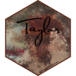
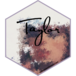
Deploying to gh-pages from @ wjakethompson/taylor@fa951701e9b115291937c02d41da0db22fc74bd2 🚀

diff --git a/dev/index.html b/dev/index.html
@@ -123,7 +123,7 @@
 <p>To install the development version from <a href="https://github.com/" class="external-link">GitHub</a> use:</p>
 <div class="sourceCode" id="cb2"><pre class="downlit sourceCode r">
 <code class="sourceCode R"><span><span class="co"># install.packages("remotes")</span></span>
-<span><span class="fu">remotes</span><span class="fu">::</span><span class="fu"><a href="https://remotes.r-lib.org/reference/install_github.html" class="external-link">install_github</a></span><span class="op">(</span><span class="st">"wjakethompson/taylor"</span><span class="op">)</span></span></code></pre></div>
+<span><span class="fu">remotes</span><span class="fu">::</span><span class="fu">install_github</span><span class="op">(</span><span class="st">"wjakethompson/taylor"</span><span class="op">)</span></span></code></pre></div>
 </div>
 <div class="section level2">
 <h2 id="example">Example<a class="anchor" aria-label="anchor" href="#example"></a>
@@ -131,68 +131,70 @@
 <p>There are three main data sets. The first is <code>taylor_album_songs</code>, which includes lyrics and audio features from the Spotify API for all songs on Taylor’s official studio albums. Notably this excludes singles released separately from an album (e.g., <em>Only the Young</em>, <em>Christmas Tree Farm</em>, etc.), and non-Taylor-owned albums that have a Taylor-owned alternative (e.g., <em>Fearless</em> is excluded in favor of <em>Fearless (Taylor’s Version)</em>). We stan artists owning their own songs.</p>
 <div class="sourceCode" id="cb3"><pre class="downlit sourceCode r">
 <code class="sourceCode R"><span><span class="va">taylor_album_songs</span></span>
-<span><span class="co">#&gt; # A tibble: 171 × 29</span></span>
-<span><span class="co">#&gt;    album_name   ep    album_release track_number track_name    artist  featuring</span></span>
-<span><span class="co">#&gt;    &lt;chr&gt;        &lt;lgl&gt; &lt;date&gt;               &lt;int&gt; &lt;chr&gt;         &lt;chr&gt;   &lt;chr&gt;    </span></span>
-<span><span class="co">#&gt;  1 Taylor Swift FALSE 2006-10-24               1 Tim McGraw    Taylor… &lt;NA&gt;     </span></span>
-<span><span class="co">#&gt;  2 Taylor Swift FALSE 2006-10-24               2 Picture To B… Taylor… &lt;NA&gt;     </span></span>
-<span><span class="co">#&gt;  3 Taylor Swift FALSE 2006-10-24               3 Teardrops On… Taylor… &lt;NA&gt;     </span></span>
-<span><span class="co">#&gt;  4 Taylor Swift FALSE 2006-10-24               4 A Place In T… Taylor… &lt;NA&gt;     </span></span>
-<span><span class="co">#&gt;  5 Taylor Swift FALSE 2006-10-24               5 Cold As You   Taylor… &lt;NA&gt;     </span></span>
-<span><span class="co">#&gt;  6 Taylor Swift FALSE 2006-10-24               6 The Outside   Taylor… &lt;NA&gt;     </span></span>
-<span><span class="co">#&gt;  7 Taylor Swift FALSE 2006-10-24               7 Tied Togethe… Taylor… &lt;NA&gt;     </span></span>
-<span><span class="co">#&gt;  8 Taylor Swift FALSE 2006-10-24               8 Stay Beautif… Taylor… &lt;NA&gt;     </span></span>
-<span><span class="co">#&gt;  9 Taylor Swift FALSE 2006-10-24               9 Should've Sa… Taylor… &lt;NA&gt;     </span></span>
-<span><span class="co">#&gt; 10 Taylor Swift FALSE 2006-10-24              10 Mary's Song … Taylor… &lt;NA&gt;     </span></span>
-<span><span class="co">#&gt; # … with 161 more rows, and 22 more variables: bonus_track &lt;lgl&gt;,</span></span>
-<span><span class="co">#&gt; #   promotional_release &lt;date&gt;, single_release &lt;date&gt;, track_release &lt;date&gt;,</span></span>
-<span><span class="co">#&gt; #   danceability &lt;dbl&gt;, energy &lt;dbl&gt;, key &lt;int&gt;, loudness &lt;dbl&gt;, mode &lt;int&gt;,</span></span>
-<span><span class="co">#&gt; #   speechiness &lt;dbl&gt;, acousticness &lt;dbl&gt;, instrumentalness &lt;dbl&gt;,</span></span>
-<span><span class="co">#&gt; #   liveness &lt;dbl&gt;, valence &lt;dbl&gt;, tempo &lt;dbl&gt;, time_signature &lt;int&gt;,</span></span>
-<span><span class="co">#&gt; #   duration_ms &lt;int&gt;, explicit &lt;lgl&gt;, key_name &lt;chr&gt;, mode_name &lt;chr&gt;,</span></span>
-<span><span class="co">#&gt; #   key_mode &lt;chr&gt;, lyrics &lt;list&gt;</span></span></code></pre></div>
+<span><span class="co">#&gt; # A tibble: 194 × 29</span></span>
+<span><span class="co">#&gt;    album_name ep    album_re…¹ track…² track…³ artist featu…⁴ bonus…⁵ promotio…⁶</span></span>
+<span><span class="co">#&gt;    &lt;chr&gt;      &lt;lgl&gt; &lt;date&gt;       &lt;int&gt; &lt;chr&gt;   &lt;chr&gt;  &lt;chr&gt;   &lt;lgl&gt;   &lt;date&gt;    </span></span>
+<span><span class="co">#&gt;  1 Taylor Sw… FALSE 2006-10-24       1 Tim Mc… Taylo… &lt;NA&gt;    FALSE   NA        </span></span>
+<span><span class="co">#&gt;  2 Taylor Sw… FALSE 2006-10-24       2 Pictur… Taylo… &lt;NA&gt;    FALSE   NA        </span></span>
+<span><span class="co">#&gt;  3 Taylor Sw… FALSE 2006-10-24       3 Teardr… Taylo… &lt;NA&gt;    FALSE   NA        </span></span>
+<span><span class="co">#&gt;  4 Taylor Sw… FALSE 2006-10-24       4 A Plac… Taylo… &lt;NA&gt;    FALSE   NA        </span></span>
+<span><span class="co">#&gt;  5 Taylor Sw… FALSE 2006-10-24       5 Cold A… Taylo… &lt;NA&gt;    FALSE   NA        </span></span>
+<span><span class="co">#&gt;  6 Taylor Sw… FALSE 2006-10-24       6 The Ou… Taylo… &lt;NA&gt;    FALSE   NA        </span></span>
+<span><span class="co">#&gt;  7 Taylor Sw… FALSE 2006-10-24       7 Tied T… Taylo… &lt;NA&gt;    FALSE   NA        </span></span>
+<span><span class="co">#&gt;  8 Taylor Sw… FALSE 2006-10-24       8 Stay B… Taylo… &lt;NA&gt;    FALSE   NA        </span></span>
+<span><span class="co">#&gt;  9 Taylor Sw… FALSE 2006-10-24       9 Should… Taylo… &lt;NA&gt;    FALSE   NA        </span></span>
+<span><span class="co">#&gt; 10 Taylor Sw… FALSE 2006-10-24      10 Mary's… Taylo… &lt;NA&gt;    FALSE   NA        </span></span>
+<span><span class="co">#&gt; # … with 184 more rows, 20 more variables: single_release &lt;date&gt;,</span></span>
+<span><span class="co">#&gt; #   track_release &lt;date&gt;, danceability &lt;dbl&gt;, energy &lt;dbl&gt;, key &lt;int&gt;,</span></span>
+<span><span class="co">#&gt; #   loudness &lt;dbl&gt;, mode &lt;int&gt;, speechiness &lt;dbl&gt;, acousticness &lt;dbl&gt;,</span></span>
+<span><span class="co">#&gt; #   instrumentalness &lt;dbl&gt;, liveness &lt;dbl&gt;, valence &lt;dbl&gt;, tempo &lt;dbl&gt;,</span></span>
+<span><span class="co">#&gt; #   time_signature &lt;int&gt;, duration_ms &lt;int&gt;, explicit &lt;lgl&gt;, key_name &lt;chr&gt;,</span></span>
+<span><span class="co">#&gt; #   mode_name &lt;chr&gt;, key_mode &lt;chr&gt;, lyrics &lt;list&gt;, and abbreviated variable</span></span>
+<span><span class="co">#&gt; #   names ¹album_release, ²track_number, ³track_name, ⁴featuring, …</span></span></code></pre></div>
 <p>You can access Taylor’s entire discography with <code>taylor_all_songs</code>. This includes all of the songs in <code>taylor_album_songs</code> plus EPs, individual singles, and the original versions of albums that have been re-released as <em>Taylor’s Version</em>.</p>
 <div class="sourceCode" id="cb4"><pre class="downlit sourceCode r">
 <code class="sourceCode R"><span><span class="va">taylor_all_songs</span></span>
-<span><span class="co">#&gt; # A tibble: 245 × 29</span></span>
-<span><span class="co">#&gt;    album_name   ep    album_release track_number track_name    artist  featuring</span></span>
-<span><span class="co">#&gt;    &lt;chr&gt;        &lt;lgl&gt; &lt;date&gt;               &lt;int&gt; &lt;chr&gt;         &lt;chr&gt;   &lt;chr&gt;    </span></span>
-<span><span class="co">#&gt;  1 Taylor Swift FALSE 2006-10-24               1 Tim McGraw    Taylor… &lt;NA&gt;     </span></span>
-<span><span class="co">#&gt;  2 Taylor Swift FALSE 2006-10-24               2 Picture To B… Taylor… &lt;NA&gt;     </span></span>
-<span><span class="co">#&gt;  3 Taylor Swift FALSE 2006-10-24               3 Teardrops On… Taylor… &lt;NA&gt;     </span></span>
-<span><span class="co">#&gt;  4 Taylor Swift FALSE 2006-10-24               4 A Place In T… Taylor… &lt;NA&gt;     </span></span>
-<span><span class="co">#&gt;  5 Taylor Swift FALSE 2006-10-24               5 Cold As You   Taylor… &lt;NA&gt;     </span></span>
-<span><span class="co">#&gt;  6 Taylor Swift FALSE 2006-10-24               6 The Outside   Taylor… &lt;NA&gt;     </span></span>
-<span><span class="co">#&gt;  7 Taylor Swift FALSE 2006-10-24               7 Tied Togethe… Taylor… &lt;NA&gt;     </span></span>
-<span><span class="co">#&gt;  8 Taylor Swift FALSE 2006-10-24               8 Stay Beautif… Taylor… &lt;NA&gt;     </span></span>
-<span><span class="co">#&gt;  9 Taylor Swift FALSE 2006-10-24               9 Should've Sa… Taylor… &lt;NA&gt;     </span></span>
-<span><span class="co">#&gt; 10 Taylor Swift FALSE 2006-10-24              10 Mary's Song … Taylor… &lt;NA&gt;     </span></span>
-<span><span class="co">#&gt; # … with 235 more rows, and 22 more variables: bonus_track &lt;lgl&gt;,</span></span>
-<span><span class="co">#&gt; #   promotional_release &lt;date&gt;, single_release &lt;date&gt;, track_release &lt;date&gt;,</span></span>
-<span><span class="co">#&gt; #   danceability &lt;dbl&gt;, energy &lt;dbl&gt;, key &lt;int&gt;, loudness &lt;dbl&gt;, mode &lt;int&gt;,</span></span>
-<span><span class="co">#&gt; #   speechiness &lt;dbl&gt;, acousticness &lt;dbl&gt;, instrumentalness &lt;dbl&gt;,</span></span>
-<span><span class="co">#&gt; #   liveness &lt;dbl&gt;, valence &lt;dbl&gt;, tempo &lt;dbl&gt;, time_signature &lt;int&gt;,</span></span>
-<span><span class="co">#&gt; #   duration_ms &lt;int&gt;, explicit &lt;lgl&gt;, key_name &lt;chr&gt;, mode_name &lt;chr&gt;,</span></span>
-<span><span class="co">#&gt; #   key_mode &lt;chr&gt;, lyrics &lt;list&gt;</span></span></code></pre></div>
+<span><span class="co">#&gt; # A tibble: 274 × 29</span></span>
+<span><span class="co">#&gt;    album_name ep    album_re…¹ track…² track…³ artist featu…⁴ bonus…⁵ promotio…⁶</span></span>
+<span><span class="co">#&gt;    &lt;chr&gt;      &lt;lgl&gt; &lt;date&gt;       &lt;int&gt; &lt;chr&gt;   &lt;chr&gt;  &lt;chr&gt;   &lt;lgl&gt;   &lt;date&gt;    </span></span>
+<span><span class="co">#&gt;  1 Taylor Sw… FALSE 2006-10-24       1 Tim Mc… Taylo… &lt;NA&gt;    FALSE   NA        </span></span>
+<span><span class="co">#&gt;  2 Taylor Sw… FALSE 2006-10-24       2 Pictur… Taylo… &lt;NA&gt;    FALSE   NA        </span></span>
+<span><span class="co">#&gt;  3 Taylor Sw… FALSE 2006-10-24       3 Teardr… Taylo… &lt;NA&gt;    FALSE   NA        </span></span>
+<span><span class="co">#&gt;  4 Taylor Sw… FALSE 2006-10-24       4 A Plac… Taylo… &lt;NA&gt;    FALSE   NA        </span></span>
+<span><span class="co">#&gt;  5 Taylor Sw… FALSE 2006-10-24       5 Cold A… Taylo… &lt;NA&gt;    FALSE   NA        </span></span>
+<span><span class="co">#&gt;  6 Taylor Sw… FALSE 2006-10-24       6 The Ou… Taylo… &lt;NA&gt;    FALSE   NA        </span></span>
+<span><span class="co">#&gt;  7 Taylor Sw… FALSE 2006-10-24       7 Tied T… Taylo… &lt;NA&gt;    FALSE   NA        </span></span>
+<span><span class="co">#&gt;  8 Taylor Sw… FALSE 2006-10-24       8 Stay B… Taylo… &lt;NA&gt;    FALSE   NA        </span></span>
+<span><span class="co">#&gt;  9 Taylor Sw… FALSE 2006-10-24       9 Should… Taylo… &lt;NA&gt;    FALSE   NA        </span></span>
+<span><span class="co">#&gt; 10 Taylor Sw… FALSE 2006-10-24      10 Mary's… Taylo… &lt;NA&gt;    FALSE   NA        </span></span>
+<span><span class="co">#&gt; # … with 264 more rows, 20 more variables: single_release &lt;date&gt;,</span></span>
+<span><span class="co">#&gt; #   track_release &lt;date&gt;, danceability &lt;dbl&gt;, energy &lt;dbl&gt;, key &lt;int&gt;,</span></span>
+<span><span class="co">#&gt; #   loudness &lt;dbl&gt;, mode &lt;int&gt;, speechiness &lt;dbl&gt;, acousticness &lt;dbl&gt;,</span></span>
+<span><span class="co">#&gt; #   instrumentalness &lt;dbl&gt;, liveness &lt;dbl&gt;, valence &lt;dbl&gt;, tempo &lt;dbl&gt;,</span></span>
+<span><span class="co">#&gt; #   time_signature &lt;int&gt;, duration_ms &lt;int&gt;, explicit &lt;lgl&gt;, key_name &lt;chr&gt;,</span></span>
+<span><span class="co">#&gt; #   mode_name &lt;chr&gt;, key_mode &lt;chr&gt;, lyrics &lt;list&gt;, and abbreviated variable</span></span>
+<span><span class="co">#&gt; #   names ¹album_release, ²track_number, ³track_name, ⁴featuring, …</span></span></code></pre></div>
 <p>Finally, there is a small data set, <code>taylor_albums</code>, summarizing Taylor’s album release history.</p>
 <div class="sourceCode" id="cb5"><pre class="downlit sourceCode r">
 <code class="sourceCode R"><span><span class="va">taylor_albums</span></span>
-<span><span class="co">#&gt; # A tibble: 13 × 4</span></span>
-<span><span class="co">#&gt;    album_name                          ep    album_release metacritic_score</span></span>
-<span><span class="co">#&gt;    &lt;chr&gt;                               &lt;lgl&gt; &lt;date&gt;                   &lt;int&gt;</span></span>
-<span><span class="co">#&gt;  1 Taylor Swift                        FALSE 2006-10-24                  NA</span></span>
-<span><span class="co">#&gt;  2 The Taylor Swift Holiday Collection TRUE  2007-10-14                  NA</span></span>
-<span><span class="co">#&gt;  3 Beautiful Eyes                      TRUE  2008-07-15                  NA</span></span>
-<span><span class="co">#&gt;  4 Fearless                            FALSE 2008-11-11                  73</span></span>
-<span><span class="co">#&gt;  5 Speak Now                           FALSE 2010-10-25                  77</span></span>
-<span><span class="co">#&gt;  6 Red                                 FALSE 2012-10-22                  77</span></span>
-<span><span class="co">#&gt;  7 1989                                FALSE 2014-10-27                  76</span></span>
-<span><span class="co">#&gt;  8 reputation                          FALSE 2017-11-10                  71</span></span>
-<span><span class="co">#&gt;  9 Lover                               FALSE 2019-08-23                  79</span></span>
-<span><span class="co">#&gt; 10 folklore                            FALSE 2020-07-24                  88</span></span>
-<span><span class="co">#&gt; 11 evermore                            FALSE 2020-12-11                  85</span></span>
-<span><span class="co">#&gt; 12 Fearless (Taylor's Version)         FALSE 2021-04-09                  82</span></span>
-<span><span class="co">#&gt; 13 Red (Taylor's Version)              FALSE 2021-11-12                  96</span></span></code></pre></div>
+<span><span class="co">#&gt; # A tibble: 14 × 5</span></span>
+<span><span class="co">#&gt;    album_name                          ep    album_release metacritic_…¹ user_…²</span></span>
+<span><span class="co">#&gt;    &lt;chr&gt;                               &lt;lgl&gt; &lt;date&gt;                &lt;int&gt;   &lt;dbl&gt;</span></span>
+<span><span class="co">#&gt;  1 Taylor Swift                        FALSE 2006-10-24               67     9.2</span></span>
+<span><span class="co">#&gt;  2 The Taylor Swift Holiday Collection TRUE  2007-10-14               NA    NA  </span></span>
+<span><span class="co">#&gt;  3 Beautiful Eyes                      TRUE  2008-07-15               NA    NA  </span></span>
+<span><span class="co">#&gt;  4 Fearless                            FALSE 2008-11-11               73     8.4</span></span>
+<span><span class="co">#&gt;  5 Speak Now                           FALSE 2010-10-25               77     8.7</span></span>
+<span><span class="co">#&gt;  6 Red                                 FALSE 2012-10-22               77     8.5</span></span>
+<span><span class="co">#&gt;  7 1989                                FALSE 2014-10-27               76     8.2</span></span>
+<span><span class="co">#&gt;  8 reputation                          FALSE 2017-11-10               71     8.3</span></span>
+<span><span class="co">#&gt;  9 Lover                               FALSE 2019-08-23               79     8.4</span></span>
+<span><span class="co">#&gt; 10 folklore                            FALSE 2020-07-24               88     9  </span></span>
+<span><span class="co">#&gt; 11 evermore                            FALSE 2020-12-11               85     8.9</span></span>
+<span><span class="co">#&gt; 12 Fearless (Taylor's Version)         FALSE 2021-04-09               82     8.9</span></span>
+<span><span class="co">#&gt; 13 Red (Taylor's Version)              FALSE 2021-11-12               91     9  </span></span>
+<span><span class="co">#&gt; 14 Midnights                           FALSE 2022-10-21               94     9  </span></span>
+<span><span class="co">#&gt; # … with abbreviated variable names ¹metacritic_score, ²user_score</span></span></code></pre></div>
 </div>
 <div class="section level2">
 <h2 id="code-of-conduct">Code of Conduct<a class="anchor" aria-label="anchor" href="#code-of-conduct"></a>

diff --git a/dev/articles/plotting.html b/dev/articles/plotting.html
@@ -198,22 +198,24 @@
 <p>Finally, there is an album scale that can be used when plotting data from multiple albums. Take for example the <a href="https://www.metacritic.com/person/taylor-swift" class="external-link">Metacritic</a> ratings of Taylor’s albums, stored in <code><a href="../reference/taylor_albums.html">taylor::taylor_albums</a></code>.</p>
 <div class="sourceCode" id="cb9"><pre class="downlit sourceCode r">
 <code class="sourceCode R"><span><span class="va">taylor_albums</span></span>
-<span><span class="co">#&gt; <span style="color: #949494;"># A tibble: 13 × 4</span></span></span>
-<span><span class="co">#&gt;    album_name                          ep    album_release metacritic_score</span></span>
-<span><span class="co">#&gt;    <span style="color: #949494; font-style: italic;">&lt;chr&gt;</span>                               <span style="color: #949494; font-style: italic;">&lt;lgl&gt;</span> <span style="color: #949494; font-style: italic;">&lt;date&gt;</span>                   <span style="color: #949494; font-style: italic;">&lt;int&gt;</span></span></span>
-<span><span class="co">#&gt; <span style="color: #BCBCBC;"> 1</span> Taylor Swift                        FALSE 2006-10-24                  <span style="color: #BB0000;">NA</span></span></span>
-<span><span class="co">#&gt; <span style="color: #BCBCBC;"> 2</span> The Taylor Swift Holiday Collection TRUE  2007-10-14                  <span style="color: #BB0000;">NA</span></span></span>
-<span><span class="co">#&gt; <span style="color: #BCBCBC;"> 3</span> Beautiful Eyes                      TRUE  2008-07-15                  <span style="color: #BB0000;">NA</span></span></span>
-<span><span class="co">#&gt; <span style="color: #BCBCBC;"> 4</span> Fearless                            FALSE 2008-11-11                  73</span></span>
-<span><span class="co">#&gt; <span style="color: #BCBCBC;"> 5</span> Speak Now                           FALSE 2010-10-25                  77</span></span>
-<span><span class="co">#&gt; <span style="color: #BCBCBC;"> 6</span> Red                                 FALSE 2012-10-22                  77</span></span>
-<span><span class="co">#&gt; <span style="color: #BCBCBC;"> 7</span> 1989                                FALSE 2014-10-27                  76</span></span>
-<span><span class="co">#&gt; <span style="color: #BCBCBC;"> 8</span> reputation                          FALSE 2017-11-10                  71</span></span>
-<span><span class="co">#&gt; <span style="color: #BCBCBC;"> 9</span> Lover                               FALSE 2019-08-23                  79</span></span>
-<span><span class="co">#&gt; <span style="color: #BCBCBC;">10</span> folklore                            FALSE 2020-07-24                  88</span></span>
-<span><span class="co">#&gt; <span style="color: #BCBCBC;">11</span> evermore                            FALSE 2020-12-11                  85</span></span>
-<span><span class="co">#&gt; <span style="color: #BCBCBC;">12</span> Fearless (Taylor's Version)         FALSE 2021-04-09                  82</span></span>
-<span><span class="co">#&gt; <span style="color: #BCBCBC;">13</span> Red (Taylor's Version)              FALSE 2021-11-12                  96</span></span></code></pre></div>
+<span><span class="co">#&gt; <span style="color: #949494;"># A tibble: 14 × 5</span></span></span>
+<span><span class="co">#&gt;    album_name                          ep    album_release metacritic_…¹ user_…²</span></span>
+<span><span class="co">#&gt;    <span style="color: #949494; font-style: italic;">&lt;chr&gt;</span>                               <span style="color: #949494; font-style: italic;">&lt;lgl&gt;</span> <span style="color: #949494; font-style: italic;">&lt;date&gt;</span>                <span style="color: #949494; font-style: italic;">&lt;int&gt;</span>   <span style="color: #949494; font-style: italic;">&lt;dbl&gt;</span></span></span>
+<span><span class="co">#&gt; <span style="color: #BCBCBC;"> 1</span> Taylor Swift                        FALSE 2006-10-24               67     9.2</span></span>
+<span><span class="co">#&gt; <span style="color: #BCBCBC;"> 2</span> The Taylor Swift Holiday Collection TRUE  2007-10-14               <span style="color: #BB0000;">NA</span>    <span style="color: #BB0000;">NA</span>  </span></span>
+<span><span class="co">#&gt; <span style="color: #BCBCBC;"> 3</span> Beautiful Eyes                      TRUE  2008-07-15               <span style="color: #BB0000;">NA</span>    <span style="color: #BB0000;">NA</span>  </span></span>
+<span><span class="co">#&gt; <span style="color: #BCBCBC;"> 4</span> Fearless                            FALSE 2008-11-11               73     8.4</span></span>
+<span><span class="co">#&gt; <span style="color: #BCBCBC;"> 5</span> Speak Now                           FALSE 2010-10-25               77     8.7</span></span>
+<span><span class="co">#&gt; <span style="color: #BCBCBC;"> 6</span> Red                                 FALSE 2012-10-22               77     8.5</span></span>
+<span><span class="co">#&gt; <span style="color: #BCBCBC;"> 7</span> 1989                                FALSE 2014-10-27               76     8.2</span></span>
+<span><span class="co">#&gt; <span style="color: #BCBCBC;"> 8</span> reputation                          FALSE 2017-11-10               71     8.3</span></span>
+<span><span class="co">#&gt; <span style="color: #BCBCBC;"> 9</span> Lover                               FALSE 2019-08-23               79     8.4</span></span>
+<span><span class="co">#&gt; <span style="color: #BCBCBC;">10</span> folklore                            FALSE 2020-07-24               88     9  </span></span>
+<span><span class="co">#&gt; <span style="color: #BCBCBC;">11</span> evermore                            FALSE 2020-12-11               85     8.9</span></span>
+<span><span class="co">#&gt; <span style="color: #BCBCBC;">12</span> Fearless (Taylor's Version)         FALSE 2021-04-09               82     8.9</span></span>
+<span><span class="co">#&gt; <span style="color: #BCBCBC;">13</span> Red (Taylor's Version)              FALSE 2021-11-12               91     9  </span></span>
+<span><span class="co">#&gt; <span style="color: #BCBCBC;">14</span> Midnights                           FALSE 2022-10-21               94     9  </span></span>
+<span><span class="co">#&gt; <span style="color: #949494;"># … with abbreviated variable names ¹metacritic_score, ²user_score</span></span></span></code></pre></div>
 <p>Let’s create a bar graph showing the rating of each album. We’ll first make the album name a factor variable. A convenience variable, <code><a href="../reference/album_levels.html">taylor::album_levels</a></code>, is included in the package that will let us easily order the factor by album release date.<a class="footnote-ref" tabindex="0" data-bs-toggle="popover" data-bs-content='&lt;p&gt;Albums are not precisely in release order. Re-releases are ordered next to the original release. See &lt;code&gt;&lt;a href="../reference/album_levels.html"&gt;?taylor::album_levels&lt;/a&gt;&lt;/code&gt; for details.&lt;/p&gt;'><sup>1</sup></a> Metacritic doesn’t have a rating for Taylor’s debut album, <em>Taylor Swift</em>, so I will manually assign a value so that we can see the full scale in action. We’ll give each bar its own color to add some pizzazz to the plot.</p>
 <div class="sourceCode" id="cb10"><pre class="downlit sourceCode r">
 <code class="sourceCode R"><span><span class="va">metacritic</span> <span class="op">&lt;-</span> <span class="va">taylor_albums</span></span>

diff --git a/dev/reference/scale_taylor.html b/dev/reference/scale_taylor.html
@@ -257,12 +257,15 @@ other values are deprecated.</p></dd>
 <span class="r-in"><span><span class="op">(</span><span class="va">p</span> <span class="op">&lt;-</span> <span class="fu"><a href="https://ggplot2.tidyverse.org/reference/ggplot.html" class="external-link">ggplot</a></span><span class="op">(</span><span class="va">taylor_album_songs</span>, <span class="fu"><a href="https://ggplot2.tidyverse.org/reference/aes.html" class="external-link">aes</a></span><span class="op">(</span>x <span class="op">=</span> <span class="va">valence</span>, y <span class="op">=</span> <span class="va">energy</span><span class="op">)</span><span class="op">)</span> <span class="op">+</span></span></span>
 <span class="r-in"><span>   <span class="fu"><a href="https://ggplot2.tidyverse.org/reference/geom_point.html" class="external-link">geom_point</a></span><span class="op">(</span><span class="fu"><a href="https://ggplot2.tidyverse.org/reference/aes.html" class="external-link">aes</a></span><span class="op">(</span>color <span class="op">=</span> <span class="va">mode_name</span><span class="op">)</span>, size <span class="op">=</span> <span class="fl">2</span><span class="op">)</span> <span class="op">+</span></span></span>
 <span class="r-in"><span>   <span class="fu"><a href="https://ggplot2.tidyverse.org/reference/ggtheme.html" class="external-link">theme_bw</a></span><span class="op">(</span><span class="op">)</span><span class="op">)</span></span></span>
+<span class="r-wrn co"><span class="r-pr">#&gt;</span> <span class="warning">Warning: </span>Removed 3 rows containing missing values (geom_point).</span>
 <span class="r-plt img"><img src="scale_taylor-1.png" alt="" width="700" height="433"></span>
 <span class="r-in"><span><span class="va">p</span> <span class="op">+</span> <span class="fu">scale_color_taylor_d</span><span class="op">(</span><span class="op">)</span></span></span>
+<span class="r-wrn co"><span class="r-pr">#&gt;</span> <span class="warning">Warning: </span>Removed 3 rows containing missing values (geom_point).</span>
 <span class="r-plt img"><img src="scale_taylor-2.png" alt="" width="700" height="433"></span>
 <span class="r-in"><span></span></span>
 <span class="r-in"><span><span class="co"># change scale label</span></span></span>
 <span class="r-in"><span><span class="va">p</span> <span class="op">+</span> <span class="fu">scale_fill_taylor_d</span><span class="op">(</span><span class="st">"Mode of Track"</span><span class="op">)</span></span></span>
+<span class="r-wrn co"><span class="r-pr">#&gt;</span> <span class="warning">Warning: </span>Removed 3 rows containing missing values (geom_point).</span>
 <span class="r-plt img"><img src="scale_taylor-3.png" alt="" width="700" height="433"></span>
 <span class="r-in"><span></span></span>
 <span class="r-in"><span><span class="co"># select album palette to use, see ?taylor::album_palettes for more details</span></span></span>
@@ -280,10 +283,13 @@ other values are deprecated.</p></dd>
 <span class="r-in"><span><span class="op">(</span><span class="va">p</span> <span class="op">&lt;-</span> <span class="fu"><a href="https://ggplot2.tidyverse.org/reference/ggplot.html" class="external-link">ggplot</a></span><span class="op">(</span><span class="va">taylor_album_songs</span>, <span class="fu"><a href="https://ggplot2.tidyverse.org/reference/aes.html" class="external-link">aes</a></span><span class="op">(</span><span class="va">valence</span>, <span class="va">energy</span><span class="op">)</span><span class="op">)</span> <span class="op">+</span></span></span>
 <span class="r-in"><span>   <span class="fu"><a href="https://ggplot2.tidyverse.org/reference/geom_point.html" class="external-link">geom_point</a></span><span class="op">(</span><span class="fu"><a href="https://ggplot2.tidyverse.org/reference/aes.html" class="external-link">aes</a></span><span class="op">(</span>color <span class="op">=</span> <span class="va">danceability</span><span class="op">)</span><span class="op">)</span> <span class="op">+</span></span></span>
 <span class="r-in"><span>   <span class="fu"><a href="https://ggplot2.tidyverse.org/reference/ggtheme.html" class="external-link">theme_minimal</a></span><span class="op">(</span><span class="op">)</span><span class="op">)</span></span></span>
+<span class="r-wrn co"><span class="r-pr">#&gt;</span> <span class="warning">Warning: </span>Removed 3 rows containing missing values (geom_point).</span>
 <span class="r-plt img"><img src="scale_taylor-7.png" alt="" width="700" height="433"></span>
 <span class="r-in"><span><span class="va">p</span> <span class="op">+</span> <span class="fu">scale_color_taylor_c</span><span class="op">(</span>album <span class="op">=</span> <span class="st">"Fearless"</span><span class="op">)</span></span></span>
+<span class="r-wrn co"><span class="r-pr">#&gt;</span> <span class="warning">Warning: </span>Removed 3 rows containing missing values (geom_point).</span>
 <span class="r-plt img"><img src="scale_taylor-8.png" alt="" width="700" height="433"></span>
 <span class="r-in"><span><span class="va">p</span> <span class="op">+</span> <span class="fu">scale_color_taylor_c</span><span class="op">(</span>album <span class="op">=</span> <span class="st">"folklore"</span><span class="op">)</span></span></span>
+<span class="r-wrn co"><span class="r-pr">#&gt;</span> <span class="warning">Warning: </span>Removed 3 rows containing missing values (geom_point).</span>
 <span class="r-plt img"><img src="scale_taylor-9.png" alt="" width="700" height="433"></span>
 </code></pre></div>
     </div>

diff --git a/dev/articles/palettes.html b/dev/articles/palettes.html
@@ -243,7 +243,15 @@
 <span><span class="co">#&gt;  <span style="background-color: #5F0000;">  </span> #421E18 </span></span>
 <span><span class="co">#&gt;  <span style="background-color: #D7875F;">  </span> #D37F55 </span></span>
 <span><span class="co">#&gt;  <span style="background-color: #AF8787;">  </span> #85796D </span></span>
-<span><span class="co">#&gt;  <span style="background-color: #D0D0D0;">  </span> #E0D9D7</span></span></code></pre></div>
+<span><span class="co">#&gt;  <span style="background-color: #D0D0D0;">  </span> #E0D9D7 </span></span>
+<span><span class="co">#&gt; </span></span>
+<span><span class="co">#&gt; $midnights</span></span>
+<span><span class="co">#&gt; &lt;color_palette[5]&gt;</span></span>
+<span><span class="co">#&gt;  <span style="background-color: #262626;">  </span> #121D27 </span></span>
+<span><span class="co">#&gt;  <span style="background-color: #8787AF;">  </span> #5A658B </span></span>
+<span><span class="co">#&gt;  <span style="background-color: #87AFAF;">  </span> #6F86A2 </span></span>
+<span><span class="co">#&gt;  <span style="background-color: #AFAFD7;">  </span> #85A7BA </span></span>
+<span><span class="co">#&gt;  <span style="background-color: #AFAFD7;">  </span> #AA9EB6</span></span></code></pre></div>
 <p>Or we can access a single palette.</p>
 <div class="sourceCode" id="cb5"><pre class="downlit sourceCode r">
 <code class="sourceCode R"><span><span class="va">album_palettes</span><span class="op">$</span><span class="va">fearless_tv</span></span>
@@ -256,7 +264,7 @@
 <p>Also included is a palette that includes one representative color from each album, <code><a href="../reference/album_palettes.html">taylor::album_compare</a></code>.</p>
 <div class="sourceCode" id="cb6"><pre class="downlit sourceCode r">
 <code class="sourceCode R"><span><span class="va">album_compare</span></span>
-<span><span class="co">#&gt; &lt;color_palette[11]&gt;</span></span>
+<span><span class="co">#&gt; &lt;color_palette[12]&gt;</span></span>
 <span><span class="co">#&gt;  <span style="background-color: #00D7D7;">  </span> taylor_swift </span></span>
 <span><span class="co">#&gt;  <span style="background-color: #D7AF87;">  </span> fearless </span></span>
 <span><span class="co">#&gt;  <span style="background-color: #875F00;">  </span> fearless_tv </span></span>
@@ -267,7 +275,8 @@
 <span><span class="co">#&gt;  <span style="background-color: #303030;">  </span> reputation </span></span>
 <span><span class="co">#&gt;  <span style="background-color: #FFD7D7;">  </span> lover </span></span>
 <span><span class="co">#&gt;  <span style="background-color: #8A8A8A;">  </span> folklore </span></span>
-<span><span class="co">#&gt;  <span style="background-color: #5F0000;">  </span> evermore</span></span></code></pre></div>
+<span><span class="co">#&gt;  <span style="background-color: #5F0000;">  </span> evermore </span></span>
+<span><span class="co">#&gt;  <span style="background-color: #AFAFD7;">  </span> midnights</span></span></code></pre></div>
 </div>
 <div class="section level2">
 <h2 id="using-color-palettes-with-ggplot2">Using color palettes with {ggplot2}<a class="anchor" aria-label="anchor" href="#using-color-palettes-with-ggplot2"></a>

diff --git a/dev/extra.css b/dev/extra.css
@@ -1,33 +1,34 @@
 :root {
-  --nav-bkg: #592617;     /* nav bar background */
-  --nav-link: #C7C5B6;    /* nav bar link color */
-  --nav-higl: #B38468;    /* nav hover background */
+  --nav-bkg: #AA9EB6;     /* nav bar background */
+  --nav-link: #121D27;    /* nav bar link color */
+  --nav-higl: #121D27;    /* nav hover background */
 
-  --sdb-link: #967862;    /* hyperlinks in sidebar */
-  --sdb-hover: #592617;   /* hyperlink hover in sidebar*/
+  --sdb-link: #5A658B;    /* hyperlinks in sidebar */
+  --sdb-hover: #85A7BA;   /* hyperlink hover in sidebar*/
   --sdb-roles: #00000094; /* author roles */
 
-  --pg-header: #592617;   /* heading color & text links */
-  --text-link: #592617;   /* hyperlinks in text */
-  --a-hover: #967862;     /* hyperlink hover */
+  --pg-header: #121D27;   /* heading color & text links */
+  --text-link: #121D27;   /* hyperlinks in text */
+  --a-hover: #5A658B;     /* hyperlink hover */
 
-  --btn-color: #967862;   /* copy button color */
-  --btn-hover: #B38468;   /* copy button hover */
+  --btn-color: #5A658B;   /* copy button color */
+  --btn-hover: #85A7BA;   /* copy button hover */
 
-  --toc-active: #C7C5B6;  /* background color for active TOC */
-  --toc-hover: #7C9694;   /* background color for hover TOC */
+  --toc-active: #121D27;  /* background color for active TOC */
+  --toc-hover: #AA9EB6;   /* background color for hover TOC */
+  --toc-htext: #121D27;   /* color of TOC hover text (default to --nav-bkg */
 }
 
 
 /* plug color into: https://codepen.io/sosuke/pen/Pjoqqp -------------------- */
 /* Collapsible menu button on mobile (--nav-link) */
 span.navbar-toggler-icon {
-  filter: brightness(0) saturate(100%) invert(89%) sepia(10%) saturate(267%) hue-rotate(15deg) brightness(91%) contrast(83%);
+  filter: brightness(0) saturate(100%) invert(6%) sepia(14%) saturate(3207%) hue-rotate(170deg) brightness(90%) contrast(89%);
 }
 
 /* Anchor image in headings (--text-link) */
 a.anchor {
-  filter: brightness(0) saturate(100%) invert(13%) sepia(86%) saturate(1008%) hue-rotate(342deg) brightness(93%) contrast(91%);
+  filter: brightness(0) saturate(100%) invert(6%) sepia(14%) saturate(3207%) hue-rotate(170deg) brightness(90%) contrast(89%);
 }
 
 
@@ -109,13 +110,13 @@ a.anchor {
 
 /* Sidebar ------------------------------------------------------------------ */
 /* link color */
-#pkgdown-sidebar a {
+.list-unstyled a {
   color: var(--sdb-link);
   text-decoration: none;
 }
 
 /* link color hover */
-#pkgdown-sidebar a:hover {
+.list-unstyled a:hover {
   text-decoration: underline;
   color: var(--sdb-hover);
 }
@@ -128,7 +129,7 @@ h2[data-toc-skip], #pkgdown-sidebar h2[data-toc-skip] {
 }
 
 /* developer roles */
-#pkgdown-sidebar small.roles {
+aside small.roles {
   font-size: 0.75em;
   color: var(--sdb-roles);
 }
@@ -217,5 +218,5 @@ h4 {
 #toc>.nav a.nav-link:hover,
 #toc>.nav a.nav-link:focus {
   background-color: var(--toc-hover);
-  color: var(--nav-bkg) !important;
+  color: var(--toc-htext) !important;
 }

diff --git a/dev/reference/album_levels.html b/dev/reference/album_levels.html
@@ -104,7 +104,6 @@ be placed with the original, rather than in the actual release order.</p>
 <span class="r-in"><span><span class="co"># by default, albums get plotted in alphabetical order</span></span></span>
 <span class="r-in"><span><span class="fu"><a href="https://ggplot2.tidyverse.org/reference/ggplot.html" class="external-link">ggplot</a></span><span class="op">(</span><span class="va">studio_albums</span>, <span class="fu"><a href="https://ggplot2.tidyverse.org/reference/aes.html" class="external-link">aes</a></span><span class="op">(</span>x <span class="op">=</span> <span class="va">metacritic_score</span>, y <span class="op">=</span> <span class="va">album_name</span><span class="op">)</span><span class="op">)</span> <span class="op">+</span></span></span>
 <span class="r-in"><span>  <span class="fu"><a href="https://ggplot2.tidyverse.org/reference/geom_bar.html" class="external-link">geom_col</a></span><span class="op">(</span><span class="op">)</span></span></span>
-<span class="r-wrn co"><span class="r-pr">#&gt;</span> <span class="warning">Warning: </span>Removed 1 rows containing missing values (position_stack).</span>
 <span class="r-plt img"><img src="album_levels-1.png" alt="" width="700" height="433"></span>
 <span class="r-in"><span></span></span>
 <span class="r-in"><span><span class="co"># use `album_levels` to create a sensible factor variable</span></span></span>
@@ -112,7 +111,6 @@ be placed with the original, rather than in the actual release order.</p>
 <span class="r-in"><span>                                   levels <span class="op">=</span> <span class="va">album_levels</span><span class="op">)</span></span></span>
 <span class="r-in"><span><span class="fu"><a href="https://ggplot2.tidyverse.org/reference/ggplot.html" class="external-link">ggplot</a></span><span class="op">(</span><span class="va">studio_albums</span>, <span class="fu"><a href="https://ggplot2.tidyverse.org/reference/aes.html" class="external-link">aes</a></span><span class="op">(</span>x <span class="op">=</span> <span class="va">metacritic_score</span>, y <span class="op">=</span> <span class="va">album_name</span><span class="op">)</span><span class="op">)</span> <span class="op">+</span></span></span>
 <span class="r-in"><span>  <span class="fu"><a href="https://ggplot2.tidyverse.org/reference/geom_bar.html" class="external-link">geom_col</a></span><span class="op">(</span><span class="op">)</span></span></span>
-<span class="r-wrn co"><span class="r-pr">#&gt;</span> <span class="warning">Warning: </span>Removed 1 rows containing missing values (position_stack).</span>
 <span class="r-plt img"><img src="album_levels-2.png" alt="" width="700" height="433"></span>
 </code></pre></div>
     </div>

diff --git a/dev/reference/album_palettes.html b/dev/reference/album_palettes.html
@@ -189,9 +189,17 @@ are named according to the name of the album.</p>
 <span class="r-out co"><span class="r-pr">#&gt;</span>  <span style="background-color: #AF8787;">  </span> #85796D </span>
 <span class="r-out co"><span class="r-pr">#&gt;</span>  <span style="background-color: #D0D0D0;">  </span> #E0D9D7 </span>
 <span class="r-out co"><span class="r-pr">#&gt;</span> </span>
+<span class="r-out co"><span class="r-pr">#&gt;</span> $midnights</span>
+<span class="r-out co"><span class="r-pr">#&gt;</span> &lt;color_palette[5]&gt;</span>
+<span class="r-out co"><span class="r-pr">#&gt;</span>  <span style="background-color: #262626;">  </span> #121D27 </span>
+<span class="r-out co"><span class="r-pr">#&gt;</span>  <span style="background-color: #8787AF;">  </span> #5A658B </span>
+<span class="r-out co"><span class="r-pr">#&gt;</span>  <span style="background-color: #87AFAF;">  </span> #6F86A2 </span>
+<span class="r-out co"><span class="r-pr">#&gt;</span>  <span style="background-color: #AFAFD7;">  </span> #85A7BA </span>
+<span class="r-out co"><span class="r-pr">#&gt;</span>  <span style="background-color: #AFAFD7;">  </span> #AA9EB6 </span>
+<span class="r-out co"><span class="r-pr">#&gt;</span> </span>
 <span class="r-in"><span></span></span>
 <span class="r-in"><span><span class="va">album_compare</span></span></span>
-<span class="r-out co"><span class="r-pr">#&gt;</span> &lt;color_palette[11]&gt;</span>
+<span class="r-out co"><span class="r-pr">#&gt;</span> &lt;color_palette[12]&gt;</span>
 <span class="r-out co"><span class="r-pr">#&gt;</span>  <span style="background-color: #00D7D7;">  </span> taylor_swift </span>
 <span class="r-out co"><span class="r-pr">#&gt;</span>  <span style="background-color: #D7AF87;">  </span> fearless </span>
 <span class="r-out co"><span class="r-pr">#&gt;</span>  <span style="background-color: #875F00;">  </span> fearless_tv </span>
@@ -203,6 +211,7 @@ are named according to the name of the album.</p>
 <span class="r-out co"><span class="r-pr">#&gt;</span>  <span style="background-color: #FFD7D7;">  </span> lover </span>
 <span class="r-out co"><span class="r-pr">#&gt;</span>  <span style="background-color: #8A8A8A;">  </span> folklore </span>
 <span class="r-out co"><span class="r-pr">#&gt;</span>  <span style="background-color: #5F0000;">  </span> evermore </span>
+<span class="r-out co"><span class="r-pr">#&gt;</span>  <span style="background-color: #AFAFD7;">  </span> midnights </span>
 <span class="r-in"><span></span></span>
 <span class="r-in"><span><span class="va">album_palettes</span><span class="op">$</span><span class="va">evermore</span></span></span>
 <span class="r-out co"><span class="r-pr">#&gt;</span> &lt;color_palette[5]&gt;</span>

diff --git a/dev/news/index.html b/dev/news/index.html
@@ -66,7 +66,13 @@
 
     <div class="section level2">
 <h2 class="pkg-version" data-toc-text="development version" id="taylor-development-version">taylor (development version)<a class="anchor" aria-label="anchor" href="#taylor-development-version"></a></h2>
-<ul><li><p>Added “Carolina” from the <em>Where the Crawdads Sing</em> soundtrack to <code>taylor_all_songs</code>.</p></li>
+<ul><li><p>Added <em>Midnights</em> to <code>taylor_all_songs</code> and <code>taylor_album_songs</code>.</p></li>
+<li><p>New color palette added to <code>album_palettes</code> for <em>Midnights</em>.</p></li>
+<li><p>New single color added to <code>album_compare</code> for <em>Midnights</em>.</p></li>
+<li><p>Metacritic score for <em>Midnights</em> has been added to <code>taylor_albums</code>.</p></li>
+<li><p>A new <code>user_score</code> column for user ratings from Metacritic was added to <code>taylor_albums</code>.</p></li>
+<li><p>Added “Lover (Remix)” with Shawn Mendes, Taylor’s cover of Earth, Wind, and Fire’s “September,” and “Three Sad Virgins” from Saturday Night Live to <code>taylor_all_songs</code>.</p></li>
+<li><p>Added “Carolina” from the <em>Where the Crawdads Sing</em> soundtrack to <code>taylor_all_songs</code>.</p></li>
 <li><p>“This Love (Taylor’s Version)” has been added as a non-album single. Presumably this will eventually move to <em>1989 (Taylor’s Version)</em>.</p></li>
 <li><p>Added “The Joker and the Queen” from Ed Sheeran’s <em>=</em> to <code>taylor_all_songs</code>.</p></li>
 <li><p>Spotify updated audio data for songs on <em>Red (Taylor’s Version)</em>. These changes are reflected in <code>taylor_all_songs</code> and <code>taylor_album_songs</code>.</p></li>
